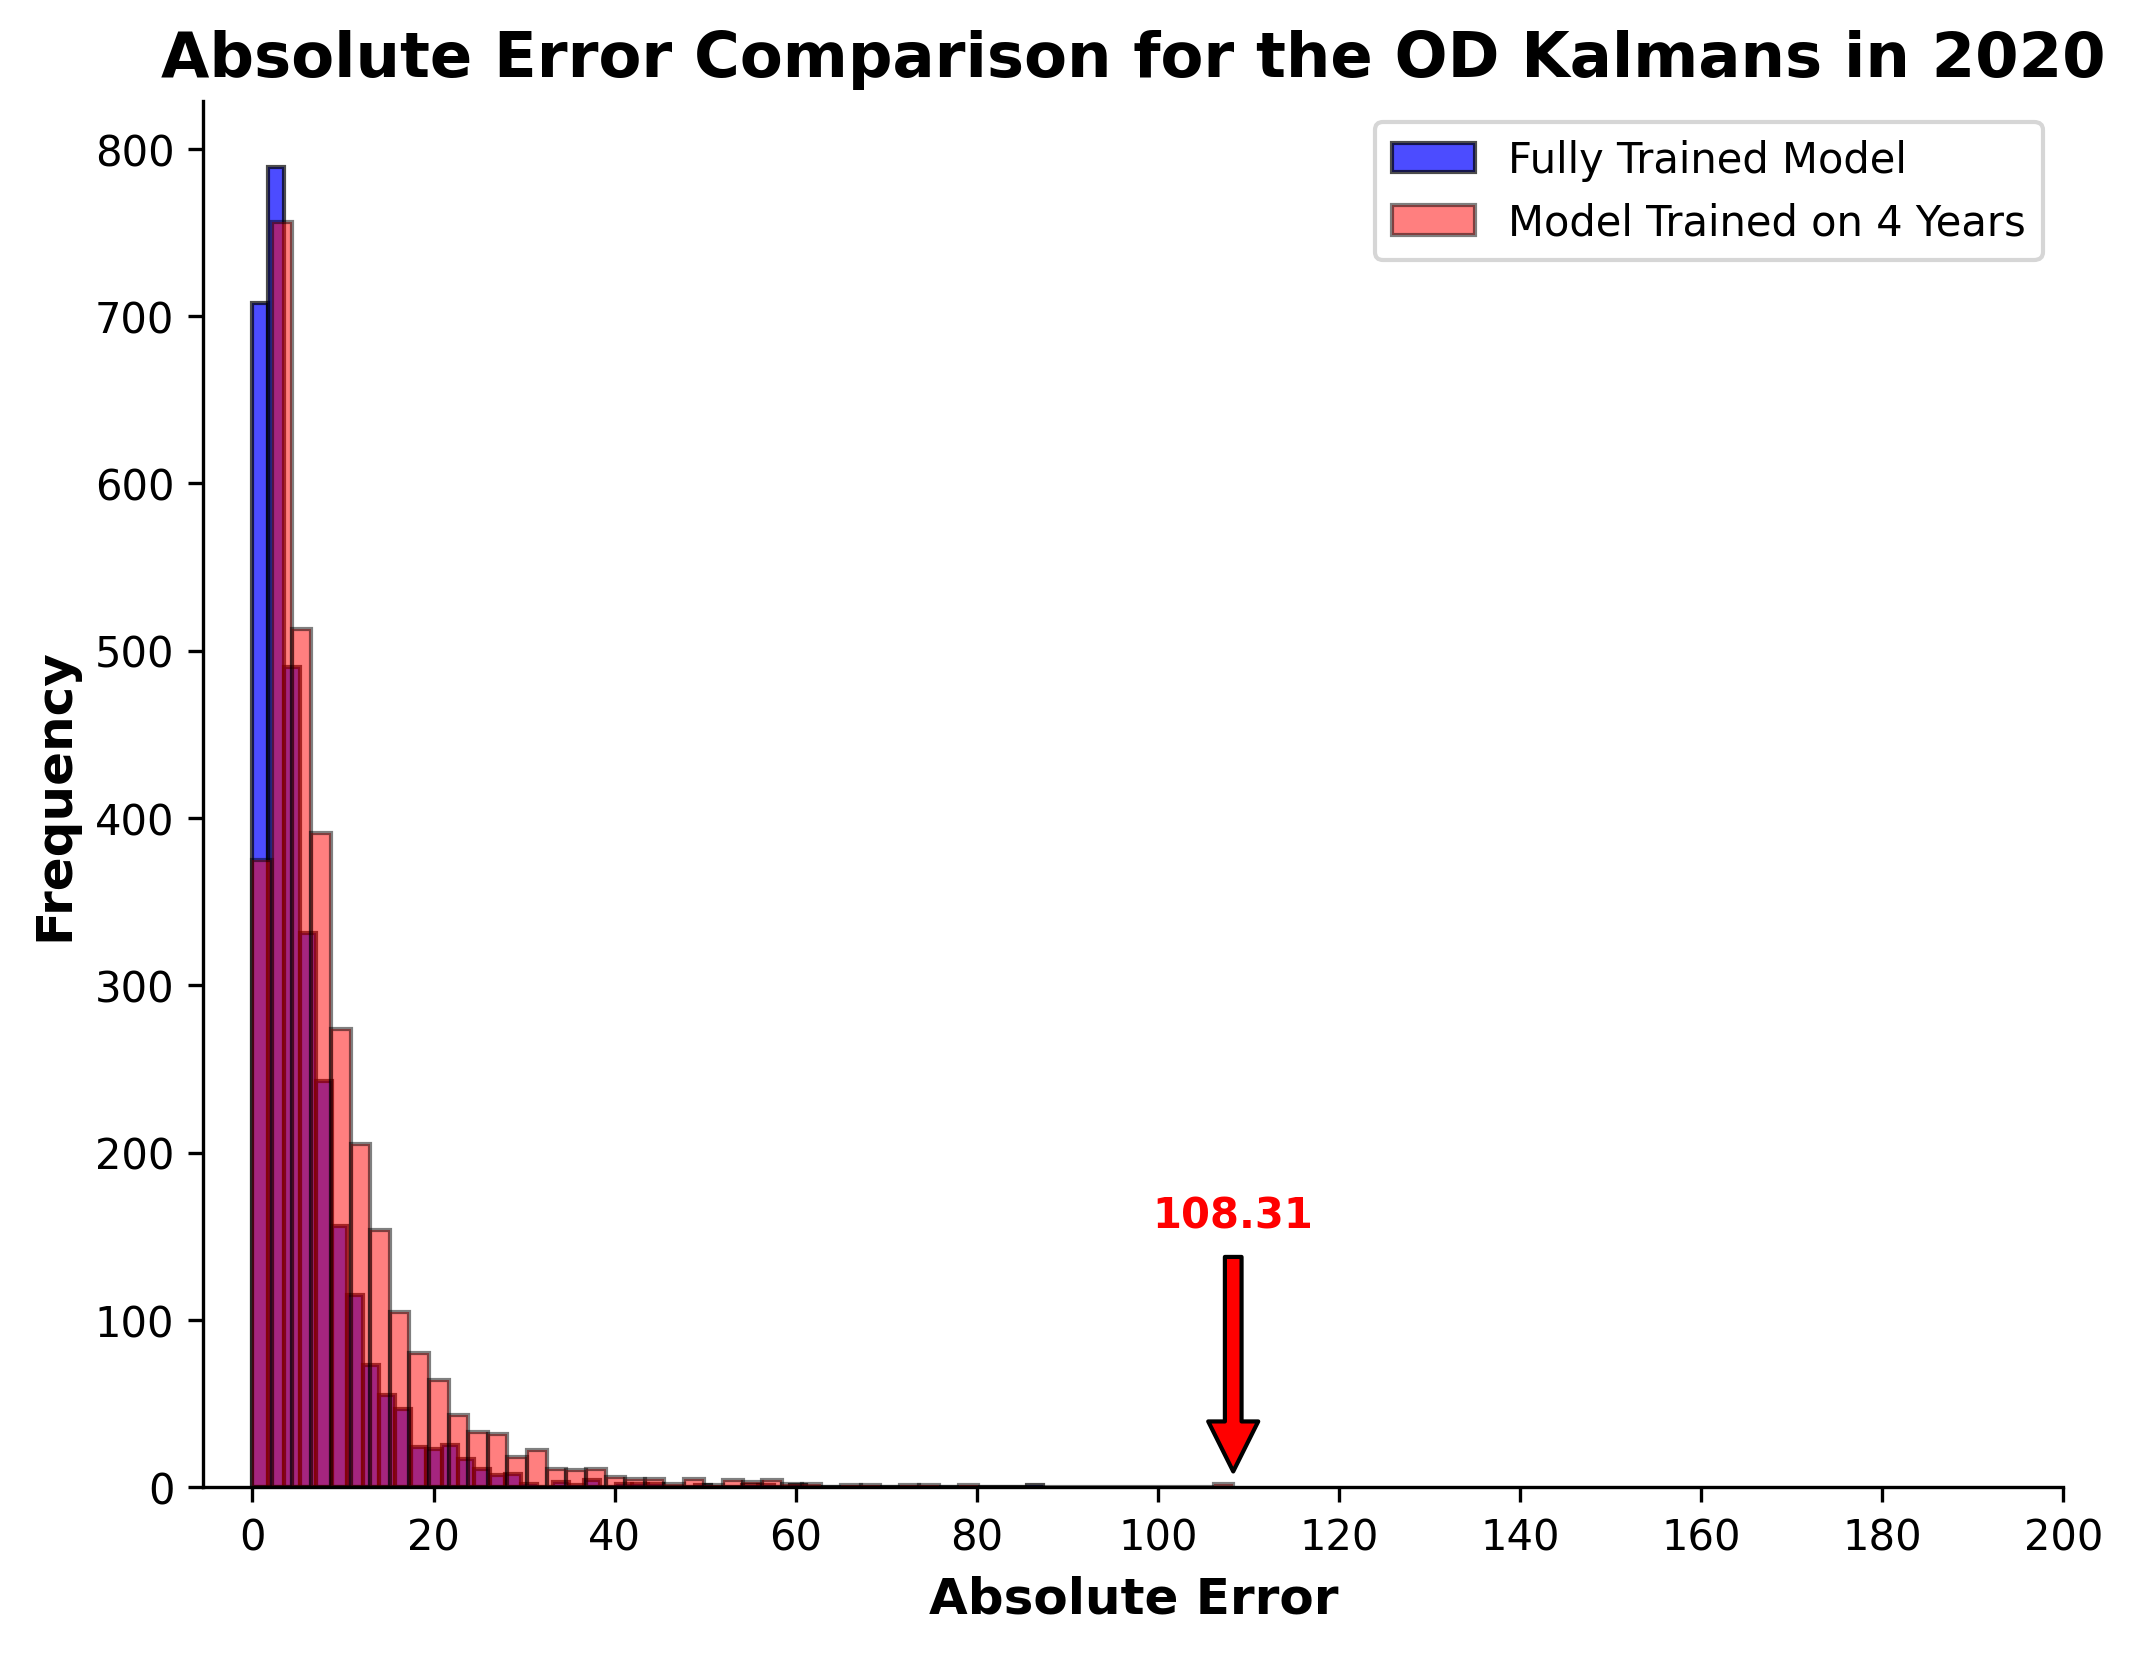
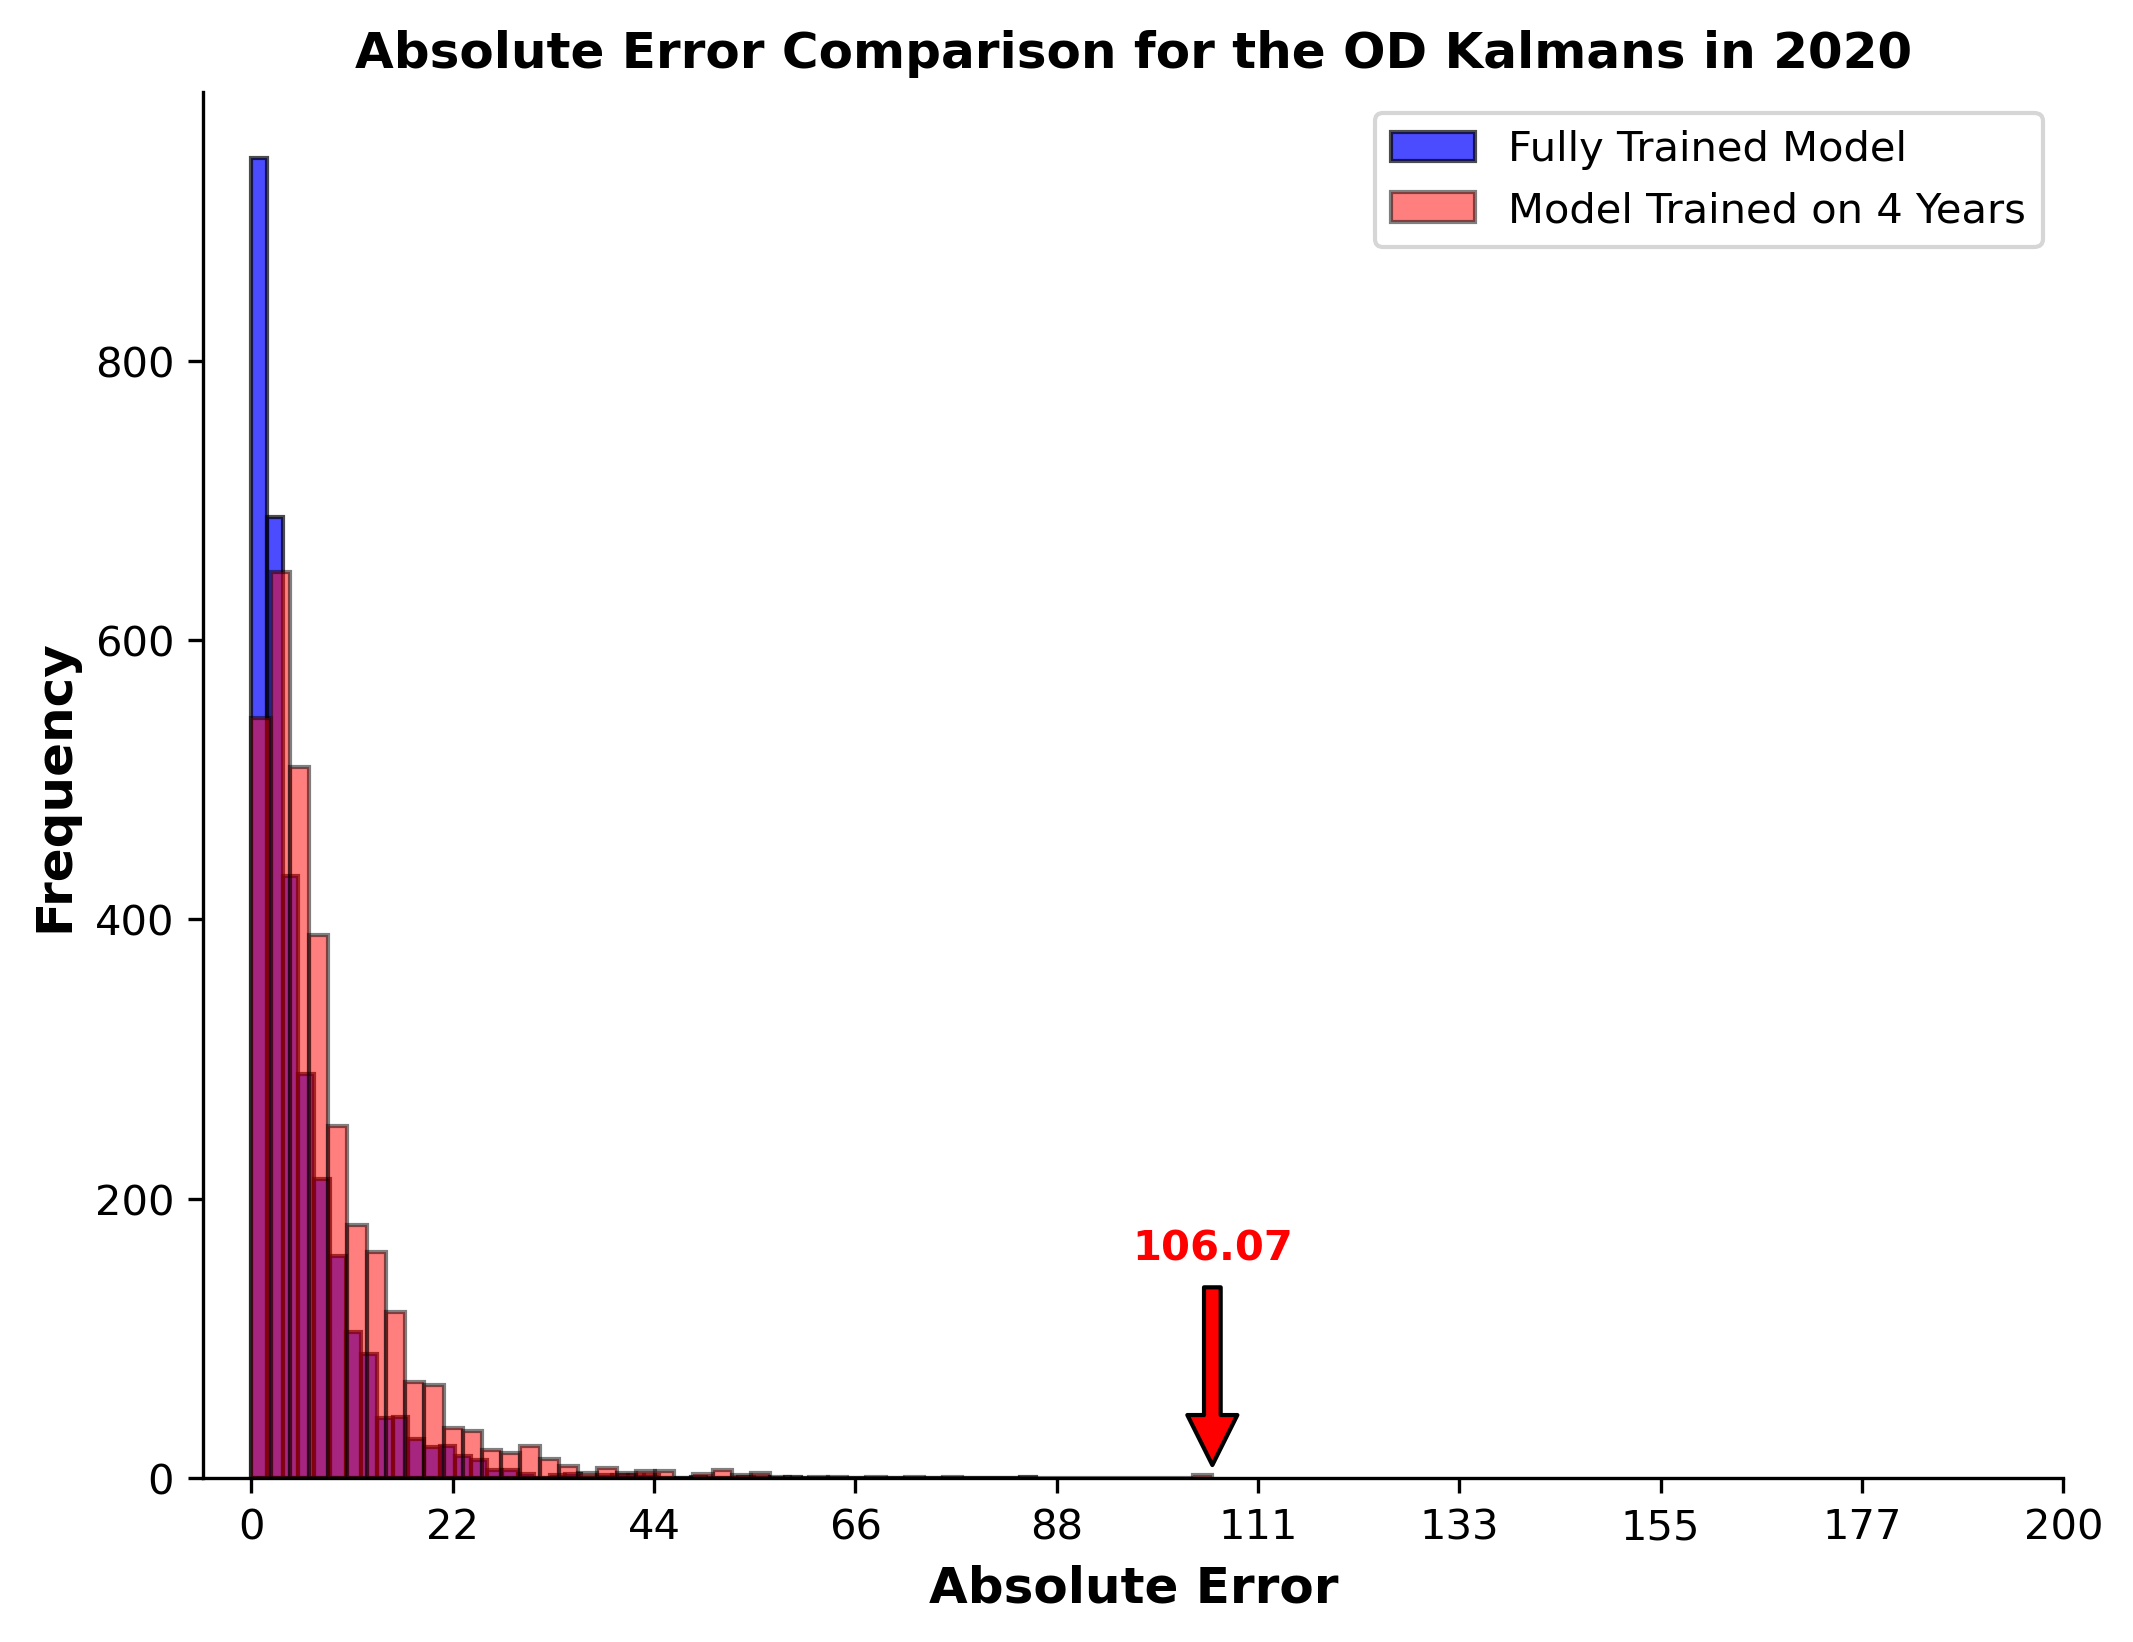
update

diff --git a/Kalman Filter Trained on Less Data/Error Histograms ToLD.py b/Kalman Filter Trained on Less Data/Error Histograms ToLD.py
@@ -47,31 +47,23 @@ def construct_histogram(err_df, output_histo_path, dataset, training_years, year
     plt.figure(figsize=(8, 6))
     full_errors = err_df[f'{year} Fully Trained Absolute Errors']
     errors = err_df[f'{year} Kals Absolute Errors']
-    max_error = errors.max().round(2)
+
+    full_max_error = np.round(full_errors.max(), 2) if not np.isnan(full_errors.max()) else 0
+    told_max_error = np.round(errors.max(), 2) if not np.isnan(errors.max()) else 0
+    overall_max_error = max(full_max_error, told_max_error)
 
     # Plot both histograms
     plt.hist(full_errors, bins=50, alpha=0.7, label='Fully Trained Model', edgecolor='black', color='blue')
     n, bins, patches = plt.hist(errors, bins=50, alpha=0.5, label=f'Model Trained on {training_years} Years', edgecolor='black', color='red')
 
-    # Set the tick positions and labels
-    if dataset == 'OD':
-        size = 15
-        if year == 2014:
-            tick_positions = np.arange(0, 1, 1)
-        else: 
-            tick_positions = np.arange(0, 220, 20)
-    elif dataset == 'DR':
-        size = 15
-        if year == 2014:
-            tick_positions = np.arange(0, 1, 1)
-        else:
-            tick_positions = np.arange(0, 520, 40)
-    elif dataset.startswith('SVI'):
-        size = 11
-        if year == 2014:
-            tick_positions = np.arange(0, 1, 1)
-        else: 
-            tick_positions = np.arange(0, 220, 20)
+    # Determine tick spacing dynamically
+    num_ticks = 10  # Adjust this to control the number of ticks
+    if dataset == 'DR':
+        tick_positions = np.linspace(0, 480, num=num_ticks)
+    elif dataset == 'OD':
+        tick_positions = np.linspace(0, 200, num=num_ticks)
+    elif dataset == 'SVI Disability':
+        tick_positions = np.linspace(0, 200, num=num_ticks)
 
     tick_labels = [str(int(x)) for x in tick_positions]
     plt.xticks(tick_positions, tick_labels) 
@@ -81,22 +73,22 @@ def construct_histogram(err_df, output_histo_path, dataset, training_years, year
     plt.legend(loc='upper right')
     
     # Annotate the maximum error on the histogram for 'errors' only
-    max_error_bin_index = np.digitize([max_error], bins) - 1
+    max_error_bin_index = np.digitize([told_max_error], bins) - 1
     # Make sure the index is within the range of n
     max_error_bin_index = min(max_error_bin_index[0], len(n) - 1)
     max_error_bin_height = n[max_error_bin_index]
     max_error_bin_value = bins[max_error_bin_index]
         
-    plt.annotate(f'{max_error}', 
-                 xy=(max_error, max_error_bin_height), 
-                 xytext=(max_error, 150),  # Adjust the multiplier for text positioning
+    plt.annotate(f'{told_max_error}', 
+                 xy=(told_max_error, max_error_bin_height), 
+                 xytext=(told_max_error, 150),  # Adjust the multiplier for text positioning
                  ha='center', 
                  va='bottom', 
                  arrowprops=dict(facecolor='red', shrink=0.05),
                  fontsize=10, weight='bold', color='red')
 
     title = f'Absolute Error Comparison for the {dataset} Kalmans in {year}'
-    plt.title(title, size=size, weight='bold')
+    plt.title(title, size=12, weight='bold')
 
     ax = plt.gca()
     ax.spines['top'].set_visible(False)

diff --git a/Kalman Filter Trained on Less Data/Accuracy Maps ToLD.py b/Kalman Filter Trained on Less Data/Accuracy Maps ToLD.py
@@ -62,8 +62,8 @@ def plot_accuracy_map(dataset, training_years, shape, year, output_map_path):
     # Construct the map
     construct_map(shape, fig, main_ax, year)
 
-    #plt.savefig(output_map_path, bbox_inches=None, pad_inches=0, dpi=300)
-    plt.show()
+    plt.savefig(output_map_path, bbox_inches=None, pad_inches=0, dpi=300)
+    # plt.show()
     plt.close(fig)
 
 def construct_map(shape, fig, main_ax, year):
@@ -137,6 +137,7 @@ def main():
                 acc_df = calculate_accuracy(data_df, kals_df, year)
                 shape = merge_data_shape(shape, acc_df)
                 plot_accuracy_map(dataset, training_years, shape, year, output_map_path)
+                print(f'Plot printed for {dataset} in {year}.')
 
 if __name__ == "__main__":
     main()
